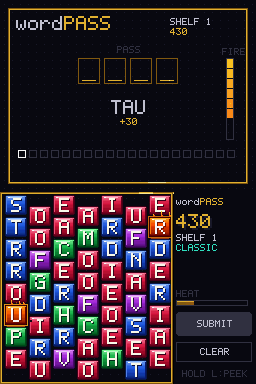
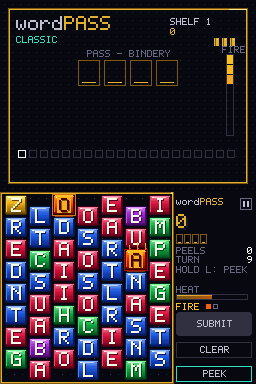
Retake the README pictures from the current game; drop two unreferenced stale ones
screens.py gains readme_* shots (kept out of check_guide's view) that write screenshot.png, screenshot-fire.png and
screenshot-results.png in the root, so make guide keeps them current. screenshot-title.png and screenshot-options.png
were referenced nowhere and showed the old UI. Read all three new pictures: they show the CLASSIC label, the pass
plaque, the pause and PEEK buttons and the current panel.

Claude-Session: https://claude.ai/code/session_01Xd63cxEMKgVYhXqDY7LkzF

diff --git a/tools/emu/screens.py b/tools/emu/screens.py
@@ -37,9 +37,17 @@ CFG = {'rom': os.path.join(REPO, 'wordPass.nds')}
 # registry
 # ---------------------------------------------------------------------------------------------
 SHOTS = {}          # function name -> (files, function)
+ROOTED = set()      # shots whose files go to the repository root (the README's pictures), not docs/img
 def shot(*files):
     def deco(fn):
         SHOTS[fn.__name__] = (files, fn)
+        return fn
+    return deco
+def readme_shot(*files):
+    """Like @shot, for the pictures at the top of README.md (screenshot*.png in the repository root). Not read by
+    tools/check_guide.py, which only knows the guide's pictures in docs/img."""
+    def deco(fn):
+        SHOTS[fn.__name__] = (files, fn); ROOTED.add(fn.__name__)
         return fn
     return deco
 
@@ -57,6 +65,11 @@ def _font(size, bold=True):
 def grab(e):
     """The 256x384 screenshot (top screen above, touch screen below) as an RGB image."""
     return e.emu.screenshot().convert('RGB')
+
+def save_root(img, name):
+    """A full-colour-reduced PNG in the repository root (README pictures), 256 x 384 as the DS shows it."""
+    q = img.convert('RGB').quantize(colors=256, method=Image.Quantize.MEDIANCUT, dither=Image.Dither.NONE)
+    q.save(os.path.join(REPO, name), optimize=True)
 
 def top(img): return img.crop((0, 0, 256, 192))
 def touch(img): return img.crop((0, 192, 256, 384))
@@ -915,8 +928,43 @@ def run_one(name):
     t = time.time()
     fn()
     for f in files:
-        assert os.path.exists(os.path.join(OUT, f)), f'{name} did not write {f}'
+        assert os.path.exists(os.path.join(REPO if name in ROOTED else OUT, f)), f'{name} did not write {f}'
     return time.time() - t
+
+@readme_shot('screenshot.png')
+def readme_play():
+    """README: a shelf in play, a five-letter chain held for the panel to price, one pass letter found."""
+    e = boot(); to_play(e); calm(e)
+    craft(e, LAYOUT_BOARD)
+    path = hit_path(e, 'stone', 3, 2); e.chain(path); e.press('A', settle=30)
+    craft(e, LAYOUT_BOARD); calm(e)
+    c, r = e.secret_cells(e.state())[1]; e.peel(c, r); calm(e)
+    e.set_heat(4); e.set_turn(7); e.run(260)
+    w = [(1, 0), (1, 1), (1, 2), (1, 3), (1, 4)]
+    for (cc, rr), ch in zip(w, 'blame'): e.set_cell(cc, rr, TILE, ch)
+    e.run(30); hold_chain(e, w)
+    save_root(grab(e), 'screenshot.png')
+
+@readme_shot('screenshot-fire.png')
+def readme_fire():
+    """README: a shelf with two flames, the meter half full and the fire two turns from its next step."""
+    e = boot(); to_play(e); calm(e)
+    craft(e, LAYOUT_BOARD, back={})
+    e.set_cell(2, 0, BURN, 'o'); e.set_cell(5, 2, BURN, 'a')
+    e.set_burn(1, 2); e.set_heat(5); e.set_turn(9); e.run(260)
+    save_root(grab(e), 'screenshot-fire.png')
+
+@readme_shot('screenshot-results.png')
+def readme_results():
+    """README: the results card of a perfect pass, after the tally has finished."""
+    e = boot(); to_play(e); calm(e)
+    craft(e, LAYOUT_BOARD)
+    for word, c0 in (('stone', 3), ('garden', 0), ('planets', 6)):
+        path = hit_path(e, word, c0, 0)
+        e.chain(path); e.press('A', settle=40); e.set_heat(0); e.set_burn(0, 99)
+        craft(e, LAYOUT_BOARD)
+    pass_by_peeling(e, keep_turn=True); e.run(110)
+    save_root(grab(e), 'screenshot-results.png')
 
 def main():
     ap = argparse.ArgumentParser(description=__doc__, formatter_class=argparse.RawDescriptionHelpFormatter)

diff --git a/TESTING.md b/TESTING.md
@@ -217,6 +217,7 @@ The renderer (`python3 tools/music/render.py --stats`) prints each song's peak s
 
     make guide          # tools/emu/screens.py retakes every picture from the ROM, then tools/check_guide.py checks the text
     make guide-check    # only the check: gcc and Python, no ROM, no emulator
+`make guide` also retakes the three pictures at the top of README.md (`screenshot.png`, `screenshot-fire.png`, `screenshot-results.png` in the repository root, the `readme_*` shots, which tools/check_guide.py does not read).
 
 `tools/emu/screens.py [rom] [--list] [--only word|word] [--jobs n]` drives the ROM through `wp.Emu` and the poke channel. Every
 picture comes from a NAMED shot function registered with `@shot('file.png', ...)`; each shot runs in its own child process
